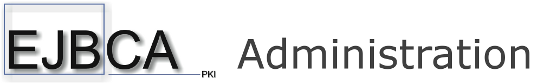
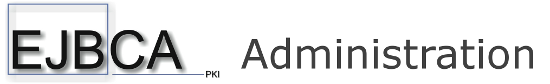
ECA-1959 Public web layout improved
git-svn-id: https://svn.cesecore.eu/svn/ejbca/trunk/ejbca@11812 37aeb1de-b14b-0410-9a0e-82b28170d228

Changed region(s): [[0.0, 0.0238, 0.4018, 0.9286], [0.4327, 0.4286, 0.9891, 0.8333], [0.5873, 0.4524, 0.6182, 0.5238]]

diff --git a/modules/publicweb-gui/resources/styles.css b/modules/publicweb-gui/resources/styles.css
@@ -160,7 +160,7 @@ acronym { border-bottom: none; }
 }
 #header div#banner {
 	height: 84px;
-	margin: 8px 12px;
+	margin: 8px 8px;
 	padding: 0em;
 	/* For IMG ALT */
 	color: #FFF;

diff --git a/modules/admin-gui/resources/themes/default_theme.css b/modules/admin-gui/resources/themes/default_theme.css
@@ -184,7 +184,7 @@ body#header {
 }
 #header div#banner {
 	height: 84px;
-	margin: 8px 12px;
+	margin: 8px 8px;
 	padding: 0em;
 	/* For IMG ALT */
 	color: #404040;

diff --git a/modules/admin-gui/resources/themes/second_theme.css b/modules/admin-gui/resources/themes/second_theme.css
@@ -184,7 +184,7 @@ body#header {
 }
 #header div#banner {
 	height: 84px;
-	margin: 8px 12px;
+	margin: 8px 8px;
 	padding: 0em;
 	/* For IMG ALT */
 	color: #404040;
